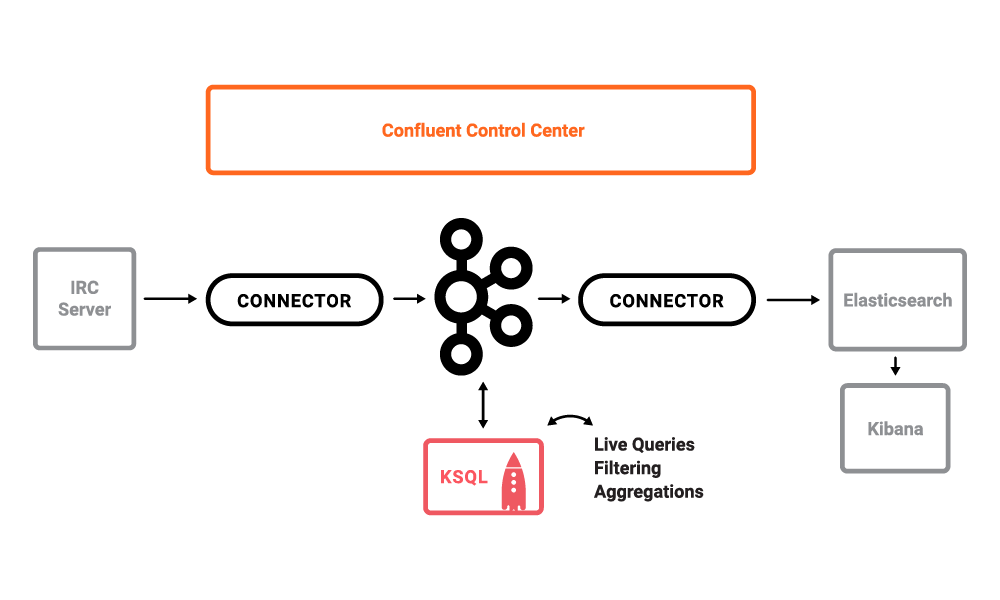
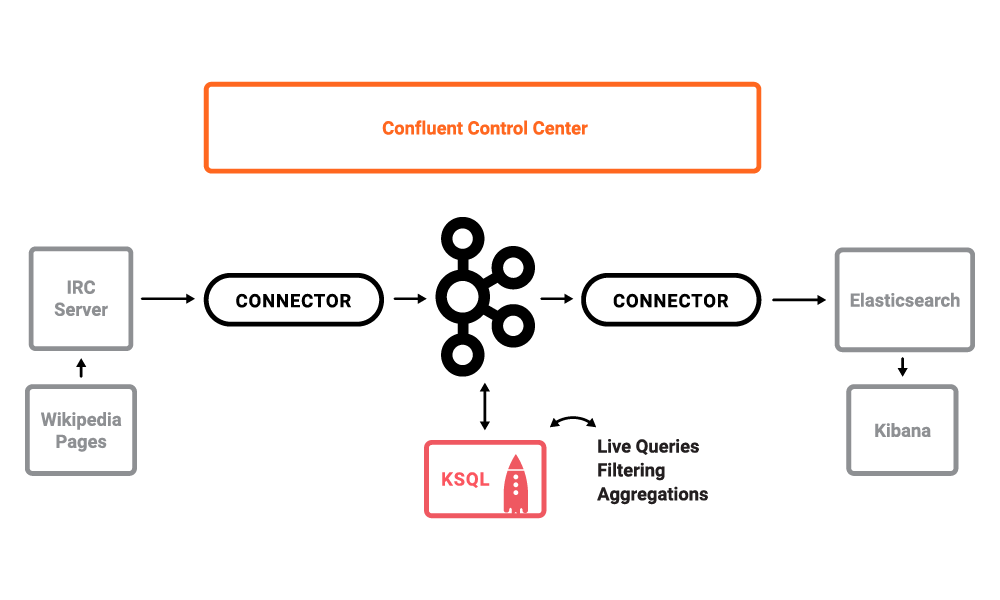
Update architecture drawing and LICENSE file (#1)
* Update architecture drawing; add LICENSE file; add note about Confluent Control Center requiring a valid license

diff --git a/README.md b/README.md
@@ -24,7 +24,7 @@ The use case is a streaming pipeline built around live edits to real Wikipedia p
 
 ![image](images/drawing.png)
 
-_Note_: this is a Docker environment and has all services running on one host. This demo is not to be used in production; this is exclusively to easily demo the Confluent Platform. Additionally, Confluent Control Center should be deployed with its own dedicated metrics cluster, separate from the cluster with production traffic. Using a dedicated metrics cluster is more resilient because it continues to provide system health monitoring even if the production traffic cluster experiences issues.
+_Note_: this is a Docker environment and has all services running on one host. This demo is not to be used in production; this is exclusively to easily demo the Confluent Platform. In production, Confluent Control Center should be deployed with a valid license and with its own dedicated metrics cluster, separate from the cluster with production traffic. Using a dedicated metrics cluster is more resilient because it continues to provide system health monitoring even if the production traffic cluster experiences issues.
 
 ## Installation
 
